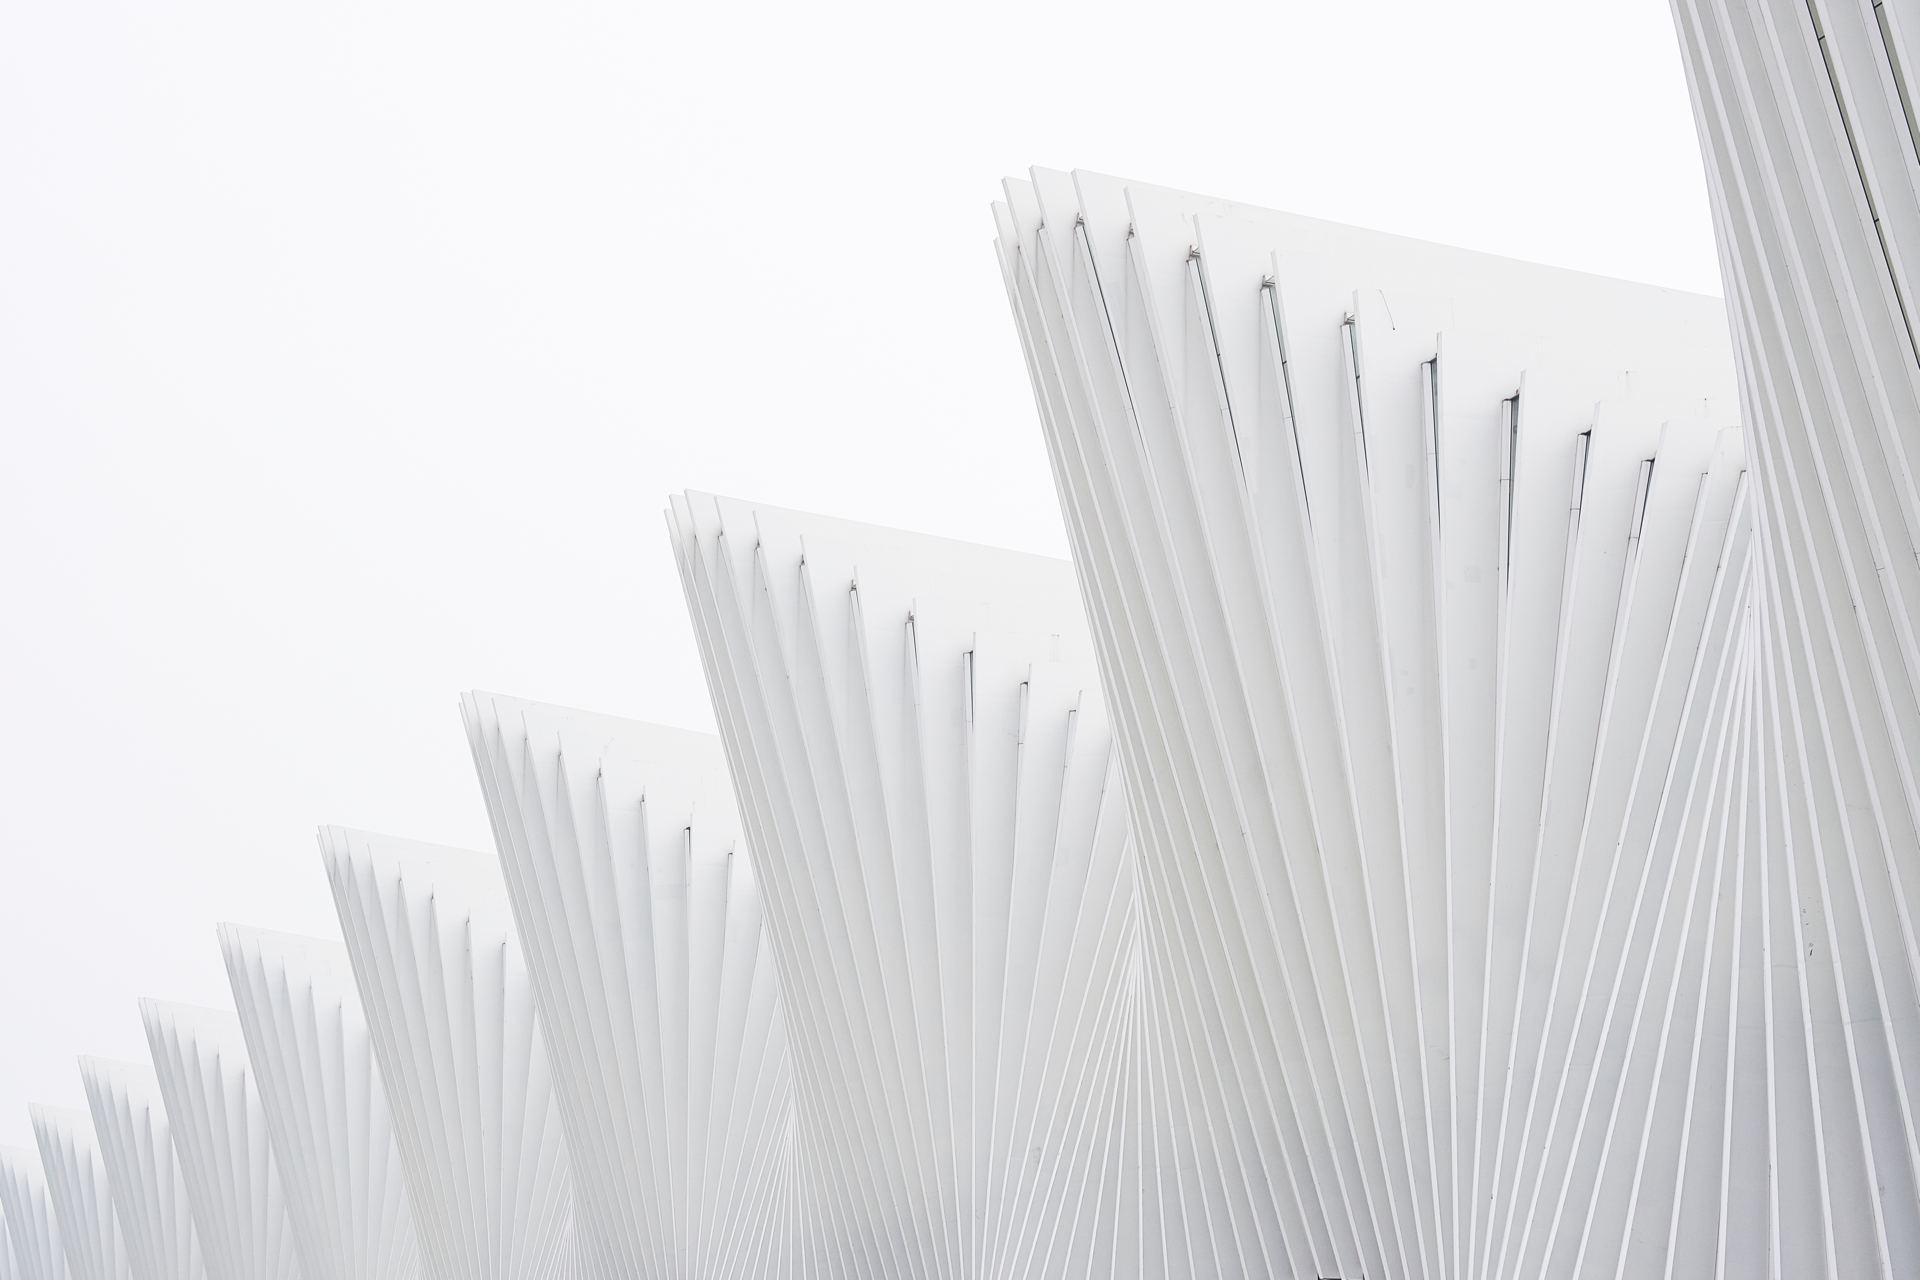
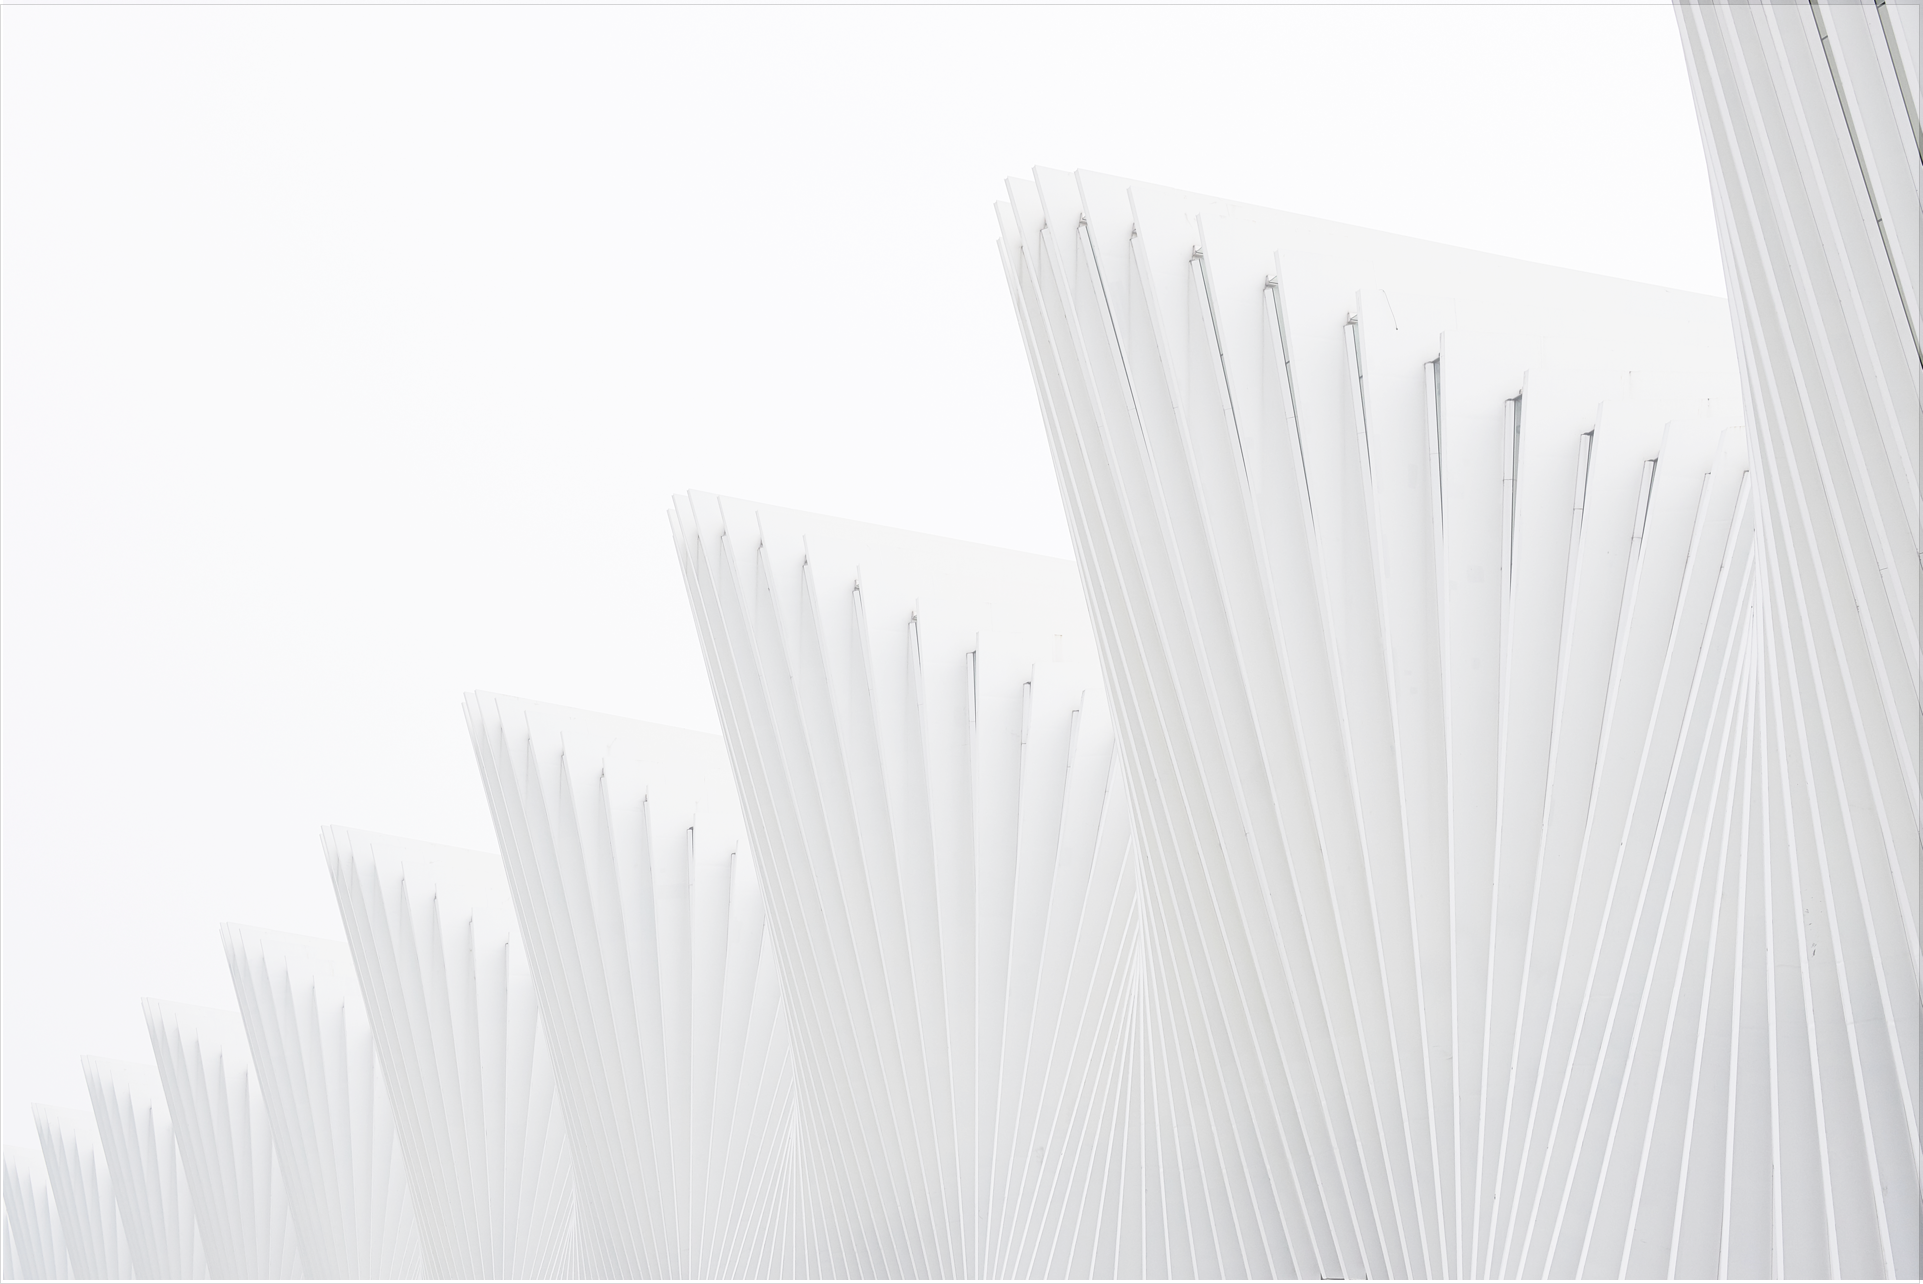
Centred background image

diff --git a/style.css b/style.css
@@ -32,13 +32,16 @@ nav a {
 header {
     padding: 3em;
     background-image: url("header-background.png");
+    background-position: center center;
     background-size: cover;
+    background-repeat: no-repeat;
 }
 
 /* main */
 main {
     background: white;
     padding: 3em;
+    padding-bottom: 4em;
 }
 
 aside.sidebar {
